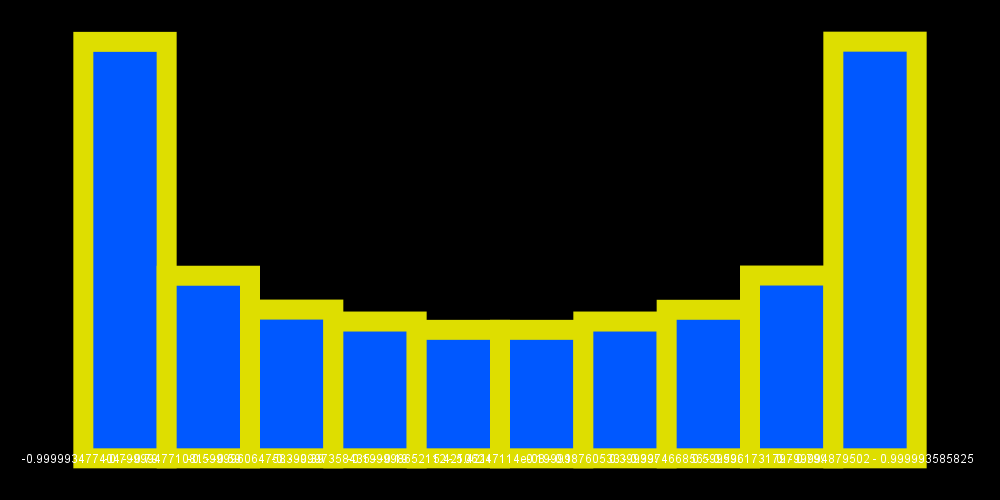
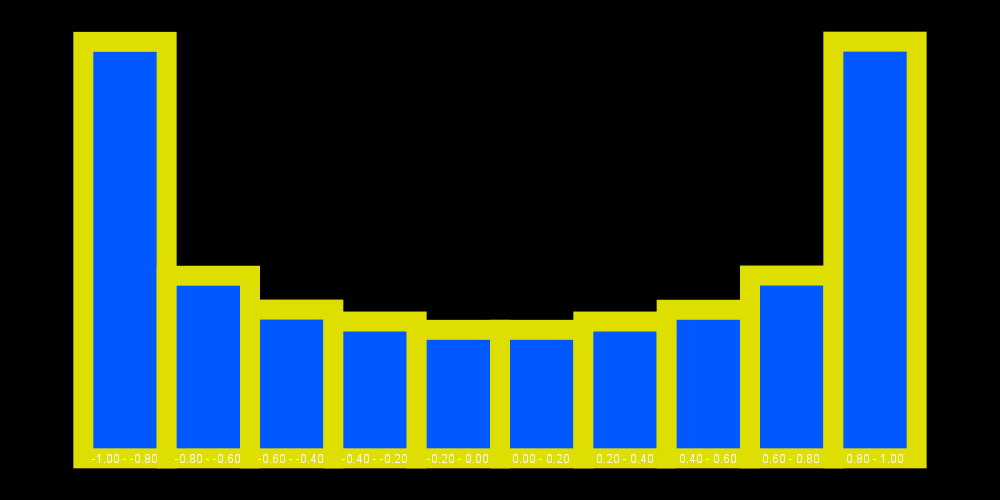
Fixed piechart graph label and flip error, experimented with partial label format support for barcharts and histograms

Changed region(s): [[0.031, 0.9, 0.992, 0.93]]

diff --git a/pyagg/graph.py b/pyagg/graph.py
@@ -9,6 +9,7 @@ import math
 
 
 from .canvas import Canvas
+from . import units
 
 
 
@@ -50,16 +51,17 @@ class Histogram:
             if val < nextval:
                 count += 1
             else:
-                self.bins.append(("%s - %s"%(curval,nextval), count))
+                self.bins.append(((curval,nextval), count))
                 count = 0 + 1 # count towards next bin
                 curval = nextval
                 nextval = curval + binwidth
         
-    def draw(self, width, height, background=(0,0,0)):
+    def draw(self, width, height, background=(0,0,0), labelformat=".2f"):
         # use these aggregated bin values as bars arg, and the bin range text as barlabels
         graph = BarChart()
         graph.bargap = 0
-        labels, values = zip(*self.bins)
+        ranges, values = zip(*self.bins)
+        labels = ["%s - %s"%(format(_min,labelformat),format(_max,labelformat)) for _min,_max in ranges]
         graph.add_category("",
                            barlabels=labels,
                            bars=values,
@@ -77,7 +79,7 @@ class BarChart:
     def add_category(self, name, barlabels, bars, **kwargs):
         self.categories[name] = {"barlabels":barlabels, "bars":bars, "options":kwargs}
 
-    def draw(self, width, height, background=(0,0,0)):
+    def draw(self, width, height, background=(0,0,0), labelformat=""):
         canvas = Canvas(width, height, background)
         ymin = min((min(dict["bars"]) for category,dict in self.categories.items()))
         ymin = min(0, ymin)     # to ensure snapping to 0 if ymin is not negative
@@ -95,7 +97,8 @@ class BarChart:
             for barlabel,barvalue in itertools.izip(dict["barlabels"], dict["bars"]):
                 flat = [curx,0, curx+self.barwidth,0, curx+self.barwidth,barvalue, curx,barvalue]
                 canvas.draw_polygon(flat, **dict["options"])
-                canvas.draw_text(unicode(barlabel), xy=(curx+self.barwidth/2.0,0), textcolor="white", textanchor="n", textsize=12)
+                barlabel = format(barlabel,labelformat)
+                canvas.draw_text(barlabel, xy=(curx+self.barwidth/2.0,0), textcolor="white", textanchor="n", textsize=12)
                 curx += self.barwidth + self.bargap
             baroffset += self.barwidth
         # return the drawed canvas
@@ -110,14 +113,19 @@ class PieChart:
         # only one possible category
         self.categories[name] = {"value":value, "options":kwargs}
 
-    def draw(self, width, height, background=(0,0,0)):
+    def draw(self, width, height, background=(0,0,0), orderby="value"):
         canvas = Canvas(width, height, background)
-        canvas.custom_space(-50, 50, 50, -50)
+        canvas.custom_space(-50, 50, 50, -50, lock_ratio=True)
         total = sum(cat["value"] for cat in self.categories.values())
 
+        
+        if orderby == "value": categories = list(sorted(self.categories.items(), key=lambda x: x[1]["value"]))
+        elif orderby == "name": categories = list(sorted(self.categories.items(), key=lambda x: x[1]["name"]))
+        else: categories = list(self.categories.items())
+
         # first pies
-        curangle = 0
-        for category in self.categories.values():
+        curangle = 90
+        for name,category in categories:
             value = category["value"]
             ratio = value / float(total)
             degrees = 360 * ratio
@@ -125,16 +133,25 @@ class PieChart:
                             **category["options"])
             curangle += degrees
 
-        # then text label
-        curangle = 0
-        for name, category in self.categories.items():
+        # text label offsets
+        x,y = canvas.coord2pixel(0,0)
+        offset = units.parse_dist(category["options"]["fillsize"],
+                                 ppi=canvas.ppi,
+                                 default_unit=canvas.default_unit,
+                                 canvassize=[canvas.width,canvas.height],
+                                 coordsize=[canvas.coordspace_width,canvas.coordspace_height])
+        offset *= 0.75
+
+        # then text labels
+        canvas.pixel_space()
+        curangle = 90
+        for name, category in categories:
             value = category["value"]
             ratio = value / float(total)
             degrees = 360 * ratio
             midangle = curangle + (degrees / 2.0)
             midrad = math.radians(midangle)
-            size = 20 #category["options"]["fillsize"] / 2.0
-            tx,ty = 0 + size * math.cos(midrad), 0 - size * math.sin(midrad)
+            tx,ty = x + offset * math.cos(midrad), y - offset * math.sin(midrad)
             canvas.draw_text(name, (tx,ty), **category["options"])
             curangle += degrees
         return canvas

diff --git a/graph_tester.py b/graph_tester.py
@@ -52,7 +52,7 @@ def test_piechart():
                            outlinewidth=1,
                            textsize=38,
                            textfont="segoe ui")
-    return graph.draw(2000, 1000, background=(22,22,22))
+    return graph.draw(1500, 1000, background=(22,22,22))
 
 def test_linegraph():
     xs = range(100)
